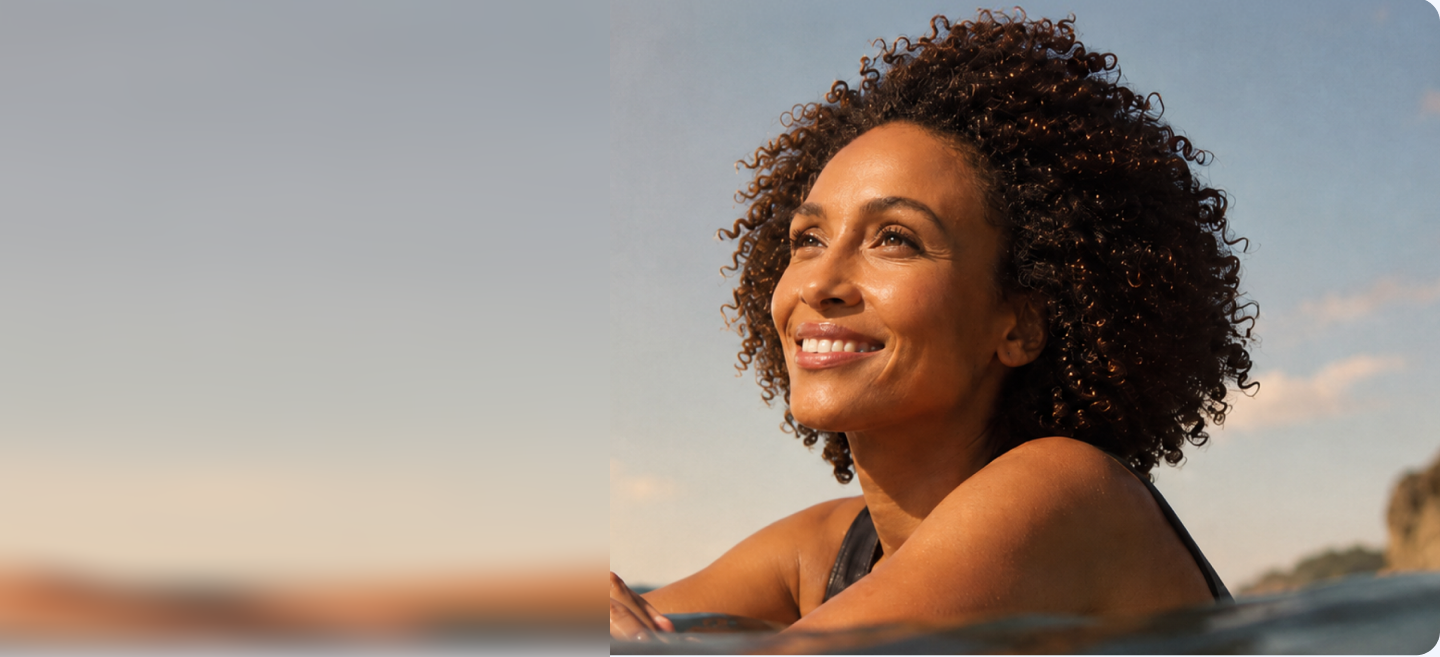
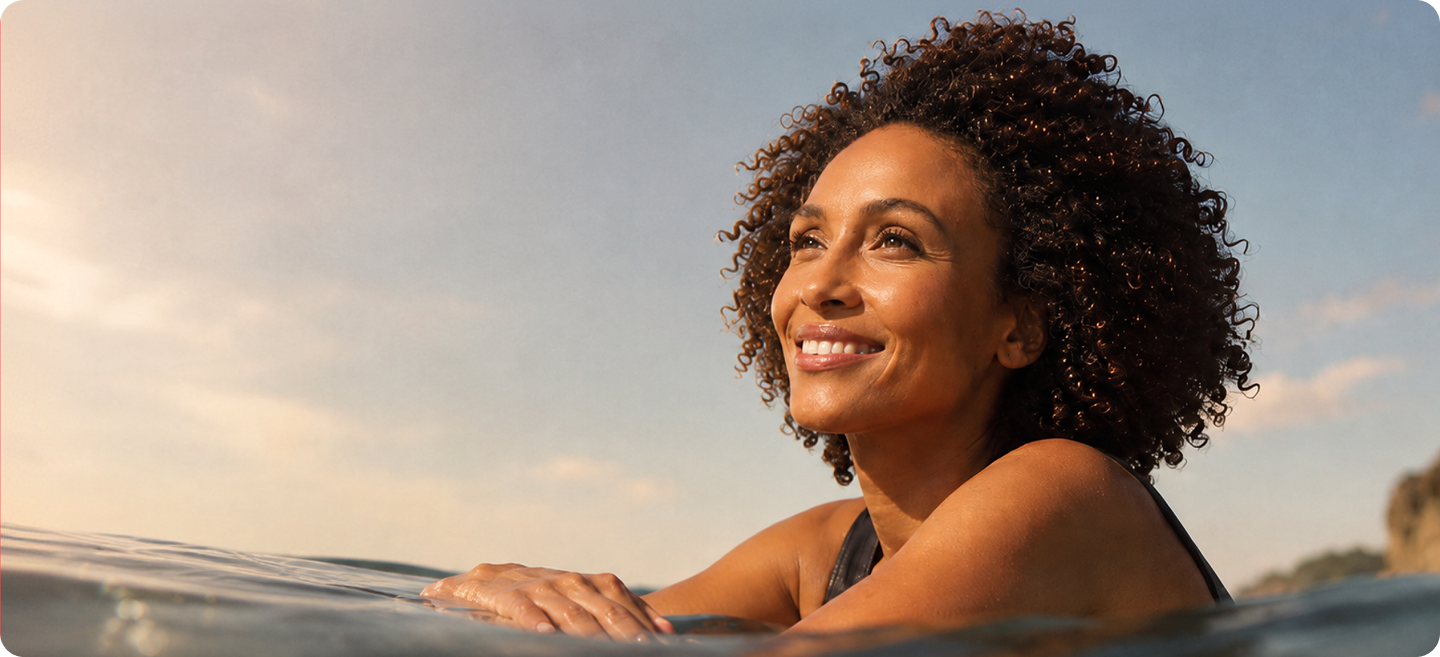
home + funnel polish: full-bleed, reveals, header corners, hero images
- Big screens (>1440): section backgrounds full-bleed, content held at the
  1440 grid (home + funnel); hero image stays flush right
- Header corners: nav rounded top, navy hero-unit backing fills the corners;
  funnel hero top squared on mobile
- Problem section: auto-advance (2.6s) with a filling progress bar; underline
  only on hover, not while auto-playing
- Manifesto + funnel coral: scroll-reveal words gray->white (2 at a time),
  fixed the stuck-transition so lit words actually turn white
- Your Move band: dedicated desktop (landscape) + mobile (portrait) photos so
  the hands aren't cropped

diff --git a/apps/web/src/app/(frontend)/moves.css b/apps/web/src/app/(frontend)/moves.css
@@ -25,14 +25,49 @@
   --f-mono: var(--font-aeonik), var(--font-silka), sans-serif;
 
   width: 100%;
-  /* full-bleed: no capped max-width, so there's no left/right gap on wide desktops */
-  max-width: none;
+  /* content is capped at the 1440 design width (see the big-screen rule below,
+     which lets section backgrounds go full-bleed while content stays at 1440) */
+  max-width: 1440px;
   margin-inline: auto;
   display: flex;
   flex-direction: column;
   gap: 16px;
   background: var(--bg);
   overflow: clip;
+}
+
+/* Big screens (>1440): let section backgrounds go full-bleed (no big side
+   margins) while the content stays within the 1440 design grid. Applies to
+   both the home page and the funnel. */
+@media (min-width: 1441px) {
+  .moves-page {
+    max-width: none;
+  }
+  /* regular sections: full-bleed bg, content padded back to the 1440 grid */
+  .moves-page > .card-section:not(.ba):not(.f-cmp),
+  .moves-page > .manifesto,
+  .moves-page > .footer,
+  .moves-page > .f-yourmove {
+    padding-inline: calc((100% - 1440px) / 2 + 60px);
+  }
+  .moves-page > .card-section.pricing {
+    padding-inline: calc((100% - 1440px) / 2 + 220px);
+  }
+  /* sections whose content lives in an inner wrapper (carousel, comparison
+     table + head) — pad the wrapper, not the section, to the 1440 grid */
+  .moves-page > .ba .ba__cards,
+  .moves-page > .f-cmp .f-cmp__head,
+  .moves-page > .f-cmp .f-cmp__wrap {
+    padding-inline: calc((100% - 1440px) / 2 + 60px);
+  }
+  /* hero: image stays full-bleed to the right edge; text/nav align to the grid */
+  .moves-page > .hero-unit > .nav,
+  .moves-page > .hero-unit > .f-nav {
+    padding-inline: calc((100% - 1440px) / 2 + 60px);
+  }
+  .moves-page > .hero-unit > .hero {
+    padding-left: calc((100% - 1440px) / 2);
+  }
 }
 
 /* ---- shared primitives ---- */
@@ -142,9 +177,13 @@
   display: flex;
   flex-direction: column;
   overflow: clip;
+  position: relative;
   /* top bar (announcement) is flush to match Figma; only the hero card's
      bottom stays rounded */
   border-radius: 0 0 16px 16px;
+  /* navy backing: shows through the nav's rounded top corners so they read as
+     the announcement-bar colour (not the page background) */
+  background: var(--navy-2);
 }
 
 .announce {
@@ -186,6 +225,7 @@
   justify-content: space-between;
   padding: 10px 60px;
   background: var(--white);
+  /* rounded top; the navy hero-unit backing shows through the corners */
   border-radius: 16px 16px 0 0;
 }
 .nav__logo {
@@ -473,6 +513,10 @@
 .problem__item.active {
   font-weight: 500;
   color: var(--navy);
+}
+/* underline only on hover/focus — not while auto-advancing */
+.problem__item:hover,
+.problem__item:focus-visible {
   text-decoration: underline;
   text-underline-offset: 4px;
 }
@@ -530,8 +574,37 @@
   flex: 1;
 }
 .progress i.on {
-  background: var(--white);
   flex: 0 0 82px;
+  position: relative;
+  overflow: hidden;
+  background: rgba(255, 255, 255, 0.35);
+}
+/* active segment fills left→right over the slide duration (Dermatica-style);
+   the 3.5s matches the auto-advance interval in Problem.tsx */
+.progress i.on::before {
+  content: '';
+  position: absolute;
+  inset: 0;
+  border-radius: 3px;
+  background: var(--white);
+  transform: scaleX(0);
+  transform-origin: left;
+  animation: problem-fill 2.6s linear forwards;
+}
+/* pause the fill while the user hovers (the auto-advance pauses too) */
+.problem__body:hover .progress i.on::before {
+  animation-play-state: paused;
+}
+@keyframes problem-fill {
+  to {
+    transform: scaleX(1);
+  }
+}
+@media (prefers-reduced-motion: reduce) {
+  .progress i.on::before {
+    animation: none;
+    transform: scaleX(1);
+  }
 }
 
 /* ============================================================
@@ -589,7 +662,6 @@
 /* scroll-linked word highlight: each word brightens as the block scrolls up */
 .manifesto__title .reveal-word {
   color: rgba(255, 255, 255, 0.4);
-  transition: color 0.25s ease-out;
 }
 .manifesto__title .reveal-word.is-lit {
   color: var(--white);

diff --git a/apps/web/src/components/landing/ScrollRevealText.tsx b/apps/web/src/components/landing/ScrollRevealText.tsx
@@ -3,10 +3,10 @@
 import { useEffect, useRef, useState } from 'react';
 
 /**
- * Scroll-linked word highlight, à la the reference "v2-testimonial":
- * every word starts dim and brightens one-by-one as the block scrolls
- * up through the viewport. Colours are defined in CSS via `.reveal-word`
- * / `.reveal-word.is-lit`, so callers keep full control of the palette.
+ * Scroll-linked heading reveal (attio-style, heading-only — nothing else in
+ * the section moves). Words start dim grey and brighten to white a couple at
+ * a time as the heading scrolls up through the viewport. Colours live in CSS
+ * (`.reveal-word` / `.reveal-word.is-lit`).
  */
 export function ScrollRevealText({ text }: { text: string }) {
   const ref = useRef<HTMLSpanElement>(null);
@@ -22,22 +22,24 @@ export function ScrollRevealText({ text }: { text: string }) {
       return;
     }
 
+    // reveal ~2 words per step so it moves in small groups, not one snap
+    const STEP = 2;
+    const steps = Math.max(1, Math.ceil(words.length / STEP));
+
     const update = () => {
       const rect = el.getBoundingClientRect();
       const vh = window.innerHeight || 1;
-      // Begin lighting as the block is still entering from just below the fold
-      // and only finish once it nears the top — a wide (~1.15×vh) span so the
-      // word-by-word reveal feels slow and deliberate rather than snapping on.
-      const start = vh * 1.15;
-      const end = vh * 0.1;
+      // Start as the heading enters from the bottom of the viewport and finish
+      // as it reaches the upper third — a full-viewport span so it reveals
+      // slowly and stays readable once complete. The heading itself doesn't
+      // move the layout; only the word colours change.
+      const start = vh * 1.0;
+      const end = vh * 0.28;
       const p = Math.min(1, Math.max(0, (start - rect.top) / (start - end)));
-      setLit(Math.ceil(p * words.length));
+      setLit(Math.min(words.length, Math.ceil(p * steps) * STEP));
     };
 
-    // A rAF loop that runs only while the heading is on screen. Scroll events
-    // alone are throttled during momentum/inertial scrolling on mobile
-    // (esp. iOS), which makes the word-by-word reveal skip — the frame loop
-    // keeps it smooth there.
+    // rAF loop while on screen keeps it smooth during momentum scrolling.
     let raf = 0;
     let running = false;
     const loop = () => {

diff --git a/apps/web/src/app/(frontend)/funnel.css b/apps/web/src/app/(frontend)/funnel.css
@@ -35,7 +35,25 @@
   justify-content: space-between;
   padding: 20px 60px;
   background: var(--white);
+  /* rounded top; the navy hero-unit backing shows through the corners */
   border-radius: 16px 16px 0 0;
+  position: relative;
+}
+/* thin white strip just below the nav — the hero (layered above it) reveals
+   it only through its own rounded top corners, so those corners read white
+   (the nav colour), not the navy backing. */
+.funnel-page .f-nav::after {
+  content: '';
+  position: absolute;
+  left: 0;
+  right: 0;
+  top: 100%;
+  height: 20px;
+  background: var(--white);
+}
+.funnel-page .f-hero {
+  position: relative;
+  z-index: 1;
 }
 .funnel-page .f-nav__logo {
   width: 163px;
@@ -479,7 +497,7 @@
   flex: 1;
   display: flex;
   flex-direction: column;
-  gap: 40px;
+  gap: 20px;
 }
 .funnel-page .f-move {
   display: flex;
@@ -906,6 +924,12 @@
   width: 100%;
   height: 100%;
   object-fit: cover;
+  /* keep the lower part of the photo (her hands on the water) when cropping */
+  object-position: center bottom;
+}
+/* desktop landscape photo by default; mobile portrait photo hidden */
+.funnel-page .f-yourmove__bg-mobile {
+  display: none;
 }
 .funnel-page .f-yourmove__inner {
   display: flex;
@@ -1138,6 +1162,13 @@
 .funnel-page .fb-coral__title .dim {
   color: rgba(255, 255, 255, 0.4);
 }
+/* scroll reveal: words start dim white and brighten to full white */
+.funnel-page .fb-coral__title .reveal-word {
+  color: rgba(255, 255, 255, 0.4);
+}
+.funnel-page .fb-coral__title .reveal-word.is-lit {
+  color: #fff;
+}
 .funnel-page .fb-coral__figure {
   position: absolute;
   left: 28.47%;
@@ -1313,7 +1344,8 @@
     gap: 0;
     padding: 0;
     background: var(--pink-bg);
-    border-radius: 20px;
+    /* square top — flush under the nav, no corner-fill needed on mobile */
+    border-radius: 0;
     overflow: clip;
   }
   .funnel-page .f-hero .hero__media {
@@ -1610,6 +1642,13 @@
     /* row flex → bottom-left content */
     align-items: flex-end;
     justify-content: flex-start;
+  }
+  /* swap to the portrait photo on mobile */
+  .funnel-page .f-yourmove__bg-desktop {
+    display: none;
+  }
+  .funnel-page .f-yourmove__bg-mobile {
+    display: block;
   }
   /* dark gradient so white copy reads over the photo (Figma §14) */
   .funnel-page .f-yourmove__bg::after {

diff --git a/apps/web/src/components/landing/Problem.tsx b/apps/web/src/components/landing/Problem.tsx
@@ -1,6 +1,6 @@
 'use client';
 
-import { useState } from 'react';
+import { useEffect, useState } from 'react';
 
 export interface ProblemData {
   eyebrow?: string;
@@ -22,6 +22,8 @@ const ITEMS = [
 
 export function Problem({ data }: { data?: ProblemData }) {
   const [active, setActive] = useState(0);
+  // pause auto-advance while the user is hovering the section
+  const [paused, setPaused] = useState(false);
 
   // Text can still come from the CMS; the images are the dedicated Figma
   // photos (problem-1…6) mapped by position — they're specific to this
@@ -34,6 +36,18 @@ export function Problem({ data }: { data?: ProblemData }) {
     img: `/images/problem-${Math.min(i + 1, ITEMS.length)}.png`,
   }));
 
+  const count = items.length;
+  // auto-cycle through the moves (Dermatica-style); pauses on hover and is
+  // disabled for reduced-motion users. Hovering a heading still overrides it.
+  useEffect(() => {
+    if (paused || count <= 1) return;
+    if (window.matchMedia('(prefers-reduced-motion: reduce)').matches) return;
+    const id = window.setInterval(() => {
+      setActive((a) => (a + 1) % count);
+    }, 2600);
+    return () => window.clearInterval(id);
+  }, [paused, count]);
+
   return (
     <section className="card-section problem">
       <div className="problem__head">
@@ -44,7 +58,11 @@ export function Problem({ data }: { data?: ProblemData }) {
         </h2>
       </div>
 
-      <div className="problem__body">
+      <div
+        className="problem__body"
+        onMouseEnter={() => setPaused(true)}
+        onMouseLeave={() => setPaused(false)}
+      >
         <div className="problem__list">
           <ul className="problem__items">
             {items.map((it, i) => (

diff --git a/apps/web/src/components/funnel/CoralBand.tsx b/apps/web/src/components/funnel/CoralBand.tsx
@@ -1,3 +1,5 @@
+import { ScrollRevealText } from '@/components/landing/ScrollRevealText';
+
 /* Coral statement band — Funnel page (Figma node 1495:14062).
    Layered composition: centred eyebrow + heading, woman in a coral arch,
    a hand-drawn white arrow pointing at her, and a "Why we're called MOVES"
@@ -14,8 +16,7 @@ export function CoralBand() {
         <p className="fb-coral__eyebrow">WHY WE&rsquo;RE CALLED MOVES</p>
 
         <h2 className="fb-coral__title">
-          <span className="bright">A Straighter</span>{' '}
-          <span className="dim">Smile Is The Outcome. Confidence Is The Move.</span>
+          <ScrollRevealText text="A Straighter Smile Is The Outcome. Confidence Is The Move." />
         </h2>
 
         {/* centred image: coral arch + woman + glow */}

diff --git a/apps/web/src/components/funnel/YourMoveBand.tsx b/apps/web/src/components/funnel/YourMoveBand.tsx
@@ -5,7 +5,19 @@ export function YourMoveBand() {
     <section className="f-yourmove">
       <div className="f-yourmove__bg">
         {/* eslint-disable-next-line @next/next/no-img-element */}
-        <img src="/images/funnel/yourmove-band.png" alt="" aria-hidden="true" />
+        <img
+          className="f-yourmove__bg-desktop"
+          src="/images/funnel/yourmove-band.png"
+          alt=""
+          aria-hidden="true"
+        />
+        {/* eslint-disable-next-line @next/next/no-img-element */}
+        <img
+          className="f-yourmove__bg-mobile"
+          src="/images/funnel/yourmove-band-mobile.png"
+          alt=""
+          aria-hidden="true"
+        />
       </div>
 
       <div className="f-yourmove__inner">
